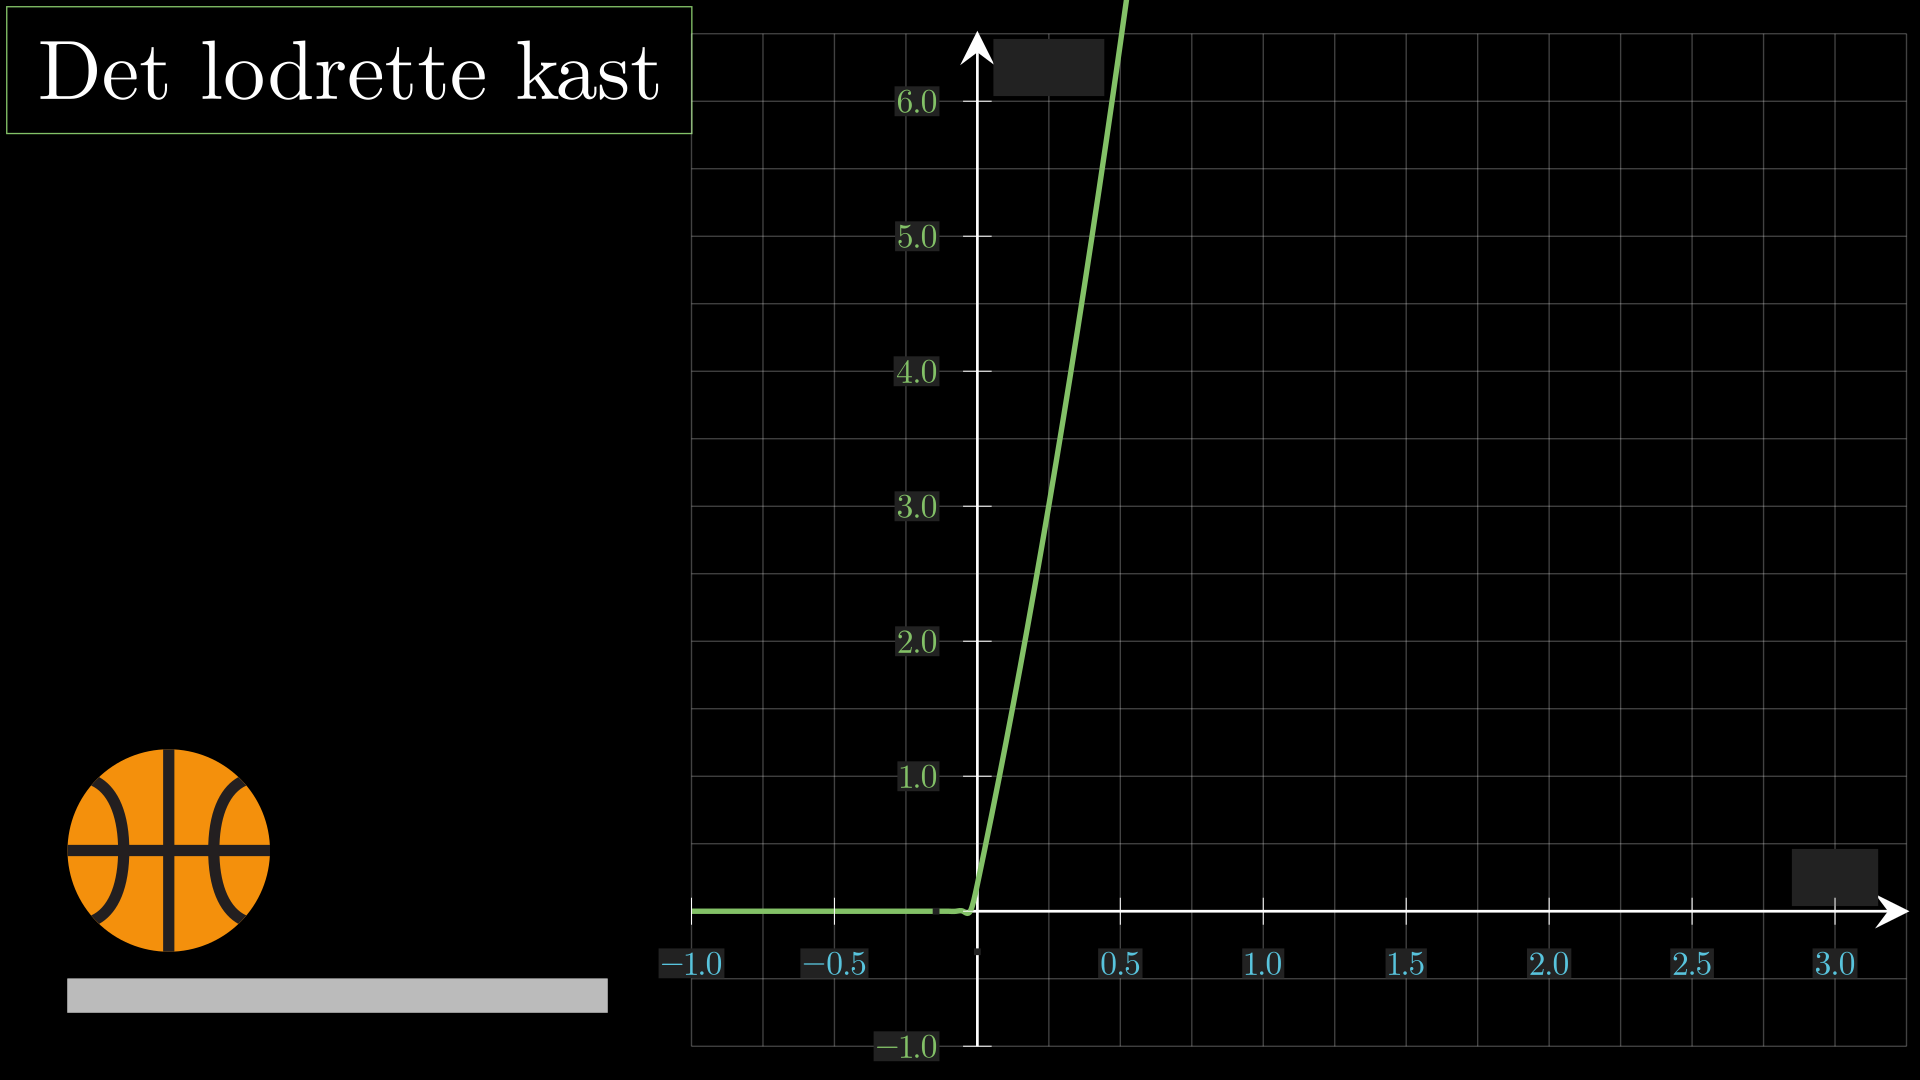
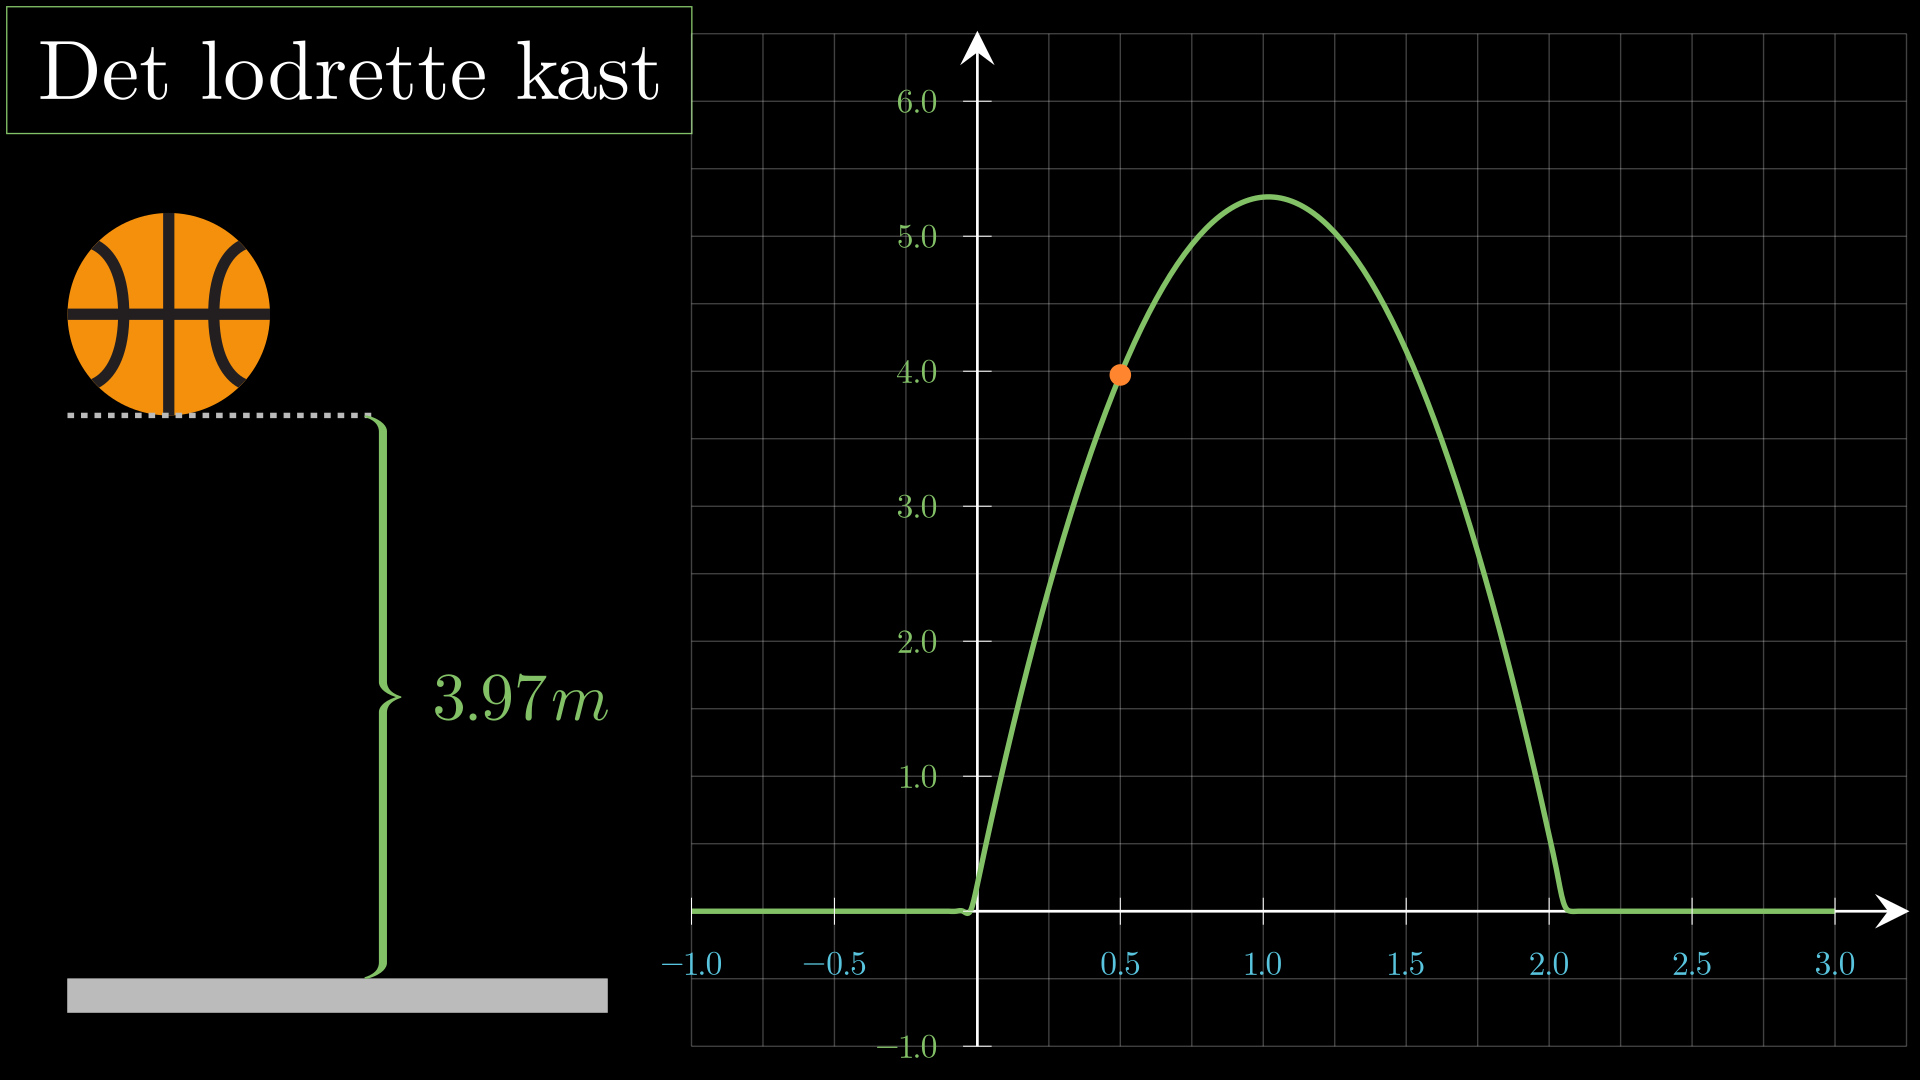
billeder opdateret

diff --git a/index.html b/index.html
@@ -198,7 +198,7 @@
 <!--      <br>-->
 <!--      <a href="fysik/HoppendeBold.html">Mekanisk energi af bold</a>-->
       <a href="fysik/HoppendeBold.html"><img src="fysik/media/images/mekanisk_energi/HoppendeBoldThumbnail.png" style="width:400px;"></a>
-      <a href="fysik/LodretKast.html"><img src="fysik/media/images/mekanik/HoppendeBoldThumbnail.png" style="width:400px;"></a>
+      <a href="fysik/LodretKast.html"><img src="fysik/media/images/mekanik/LodretKastThumbnail.png" style="width:400px;"></a>
 <!--      <a href="fysik/BølgeEgenskaber.html">Bølgers kendetegn</a>-->
       <a href="fysik/BoelgeEgenskaber.html"><img src="fysik/media/images/bølger/BoelgeEgenskaberThumbnail.png" style="width:400px;"></a>
 <!--      <br>-->

diff --git a/kemi/reaktionskinetik.py b/kemi/reaktionskinetik.py
@@ -45,7 +45,7 @@ class HastighedsFordeling(MovingCameraScene, Slide if slides else Scene):
         #     FadeOut(title),
         #     run_time=0.25
         # )
-        self.experimental_setup()
+        self.maxwell_boltzmann()
         self.wait(5)
 
     def slide_pause(self, t=0.5, slides_bool=slides):
@@ -56,6 +56,45 @@ class HastighedsFordeling(MovingCameraScene, Slide if slides else Scene):
         return cmap
 
     def maxwell_boltzmann(self):
+        # P(x) = np.sqrt(2 / np.pi) * x ** 2 / a ** 3 * np.exp(-x ** 2 / (2 * a ** 2))
+        # f(v) = (m/(2pikBT))^3/2 * 4piv^2^* exp(-mv^2/(2kBT))
+        eps = 1e-6
+        _unit = 1.6605E-27 # kg
+        kB = 1.380649E-23 # m^2 kg s^-2 K^-1
+        T = ValueTracker(300) # K
+        m = ValueTracker(20) * _unit
+        plane = NumberPlane(
+            x_range=(0, 3000+eps, 500),
+            y_range=(0, 0.005+eps, 0.001),
+            x_length=4.5*2,
+            y_length=7.5,
+            background_line_style={
+                "stroke_color": LIGHTER_GRAY,
+                "stroke_width": 1,
+                "stroke_opacity": 0.3,
+            },
+            axis_config={
+                "include_tip": True,
+                "tip_shape": StealthTip,
+                "tip_width": 0.2,
+                "tip_height": 0.2
+            },
+        ).to_edge(RIGHT, buff=0.1)
+        graph = always_redraw(lambda:
+            plane.plot(
+                lambda v: (m.get_value()/(2*np.pi*kB*T.get_value()))**(3/2) * 4*np.pi*v**2 * np.exp((-m.get_value()*v**2)/(2*kB*T.get_value())),
+                x_range=(0, 3000)
+            )
+        )
+        self.add(plane, graph)
+        self.play(
+            T.animate.set_value(0)
+        )
+        self.slide_pause()
+        self.play(
+            T.animate.set_value(1000),
+            run_time=10
+        )
 
 
 if __name__ == "__main__":
